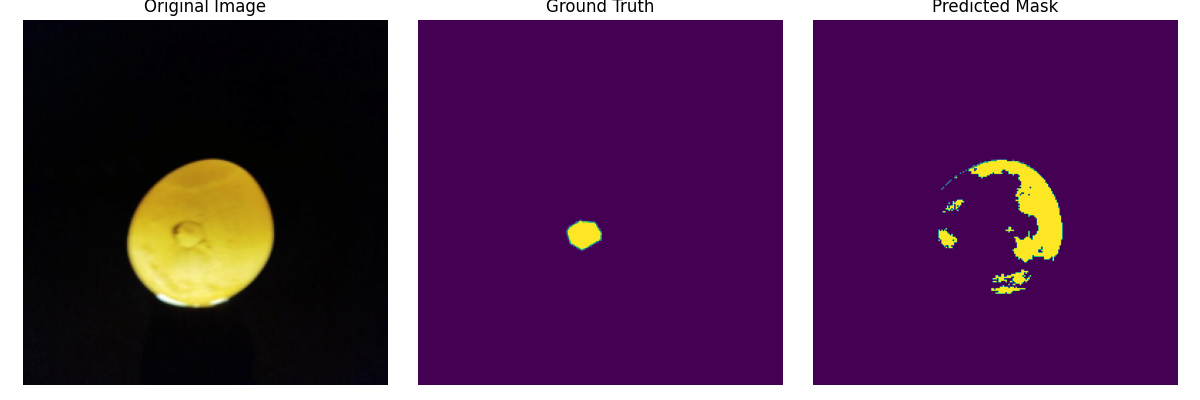
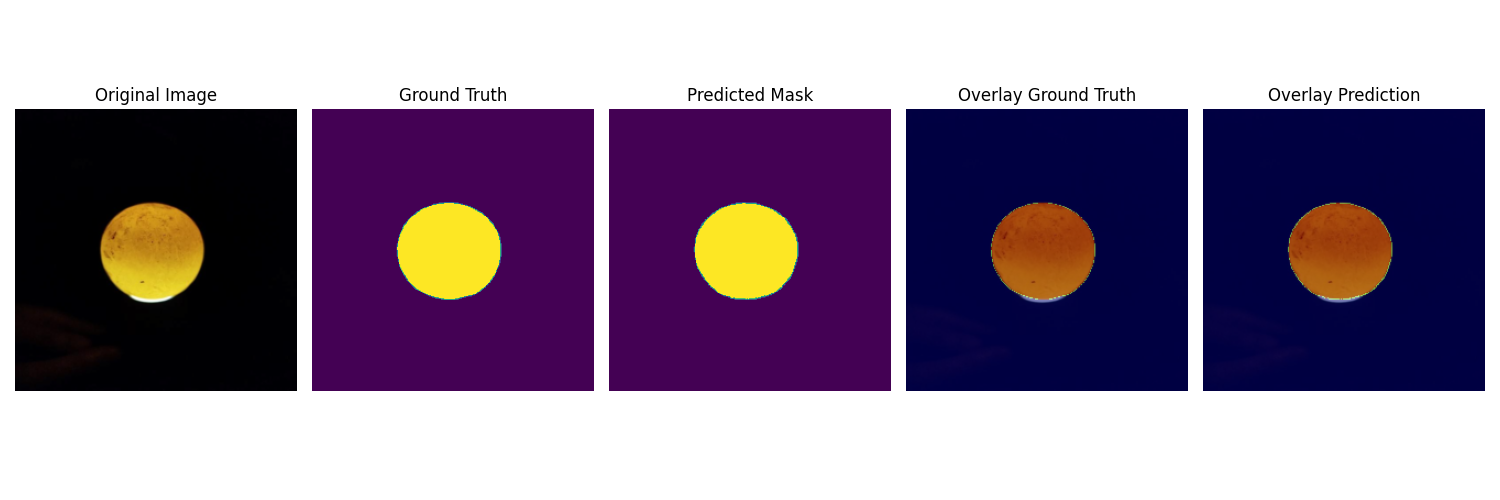
update visual

diff --git a/visualization.py b/visualization.py
@@ -10,23 +10,14 @@ from segnet import Segnet
 import json
 
 def visualize_predictions(model, dataloader, device, output_dir, num_samples=5):
-    """
-    Lưu ảnh gốc, mask ground truth và mask dự đoán vào thư mục chỉ định.
-    
-    Args:
-        model: Mô hình segmentation đã train.
-        dataloader: Dataloader chứa dữ liệu test.
-        device: Thiết bị chạy mô hình ('cuda' hoặc 'cpu').
-        output_dir: Thư mục lưu ảnh kết quả.
-        num_samples: Số lượng mẫu muốn hiển thị.
-    """
+
     os.makedirs(output_dir, exist_ok=True)
     model.eval()
     
     samples = random.sample(list(dataloader), num_samples)
 
-    mean = np.array([0.485, 0.456, 0.406])  # Mean chuẩn hóa
-    std = np.array([0.229, 0.224, 0.225])  # Std chuẩn hóa
+    mean = np.array([0.485, 0.456, 0.406])  
+    std = np.array([0.229, 0.224, 0.225])  
 
     for i, sample in enumerate(samples):
         inputs = sample['image'].to(device)
@@ -34,16 +25,21 @@ def visualize_predictions(model, dataloader, device, output_dir, num_samples=5):
         masks = masks.squeeze(1)
 
         outputs = model(inputs)
-
         y_pred = torch.argmax(outputs, dim=1).data.cpu().numpy()
         y_true = masks.data.cpu().numpy()
 
-        # Chuyển ảnh về định dạng có thể hiển thị
         img = inputs.squeeze(0).permute(1, 2, 0).cpu().numpy()  
-        img = (img * std) + mean  # Đảo chuẩn hóa
-        img = np.clip(img, 0, 1)  # Đảm bảo giá trị nằm trong khoảng [0,1]
+        img = (img * std) + mean  
+        img = np.clip(img, 0, 1)  
 
-        fig, axes = plt.subplots(1, 3, figsize=(12, 4))
+
+        y_pred_colored = colorize_mask(y_pred[0])
+        y_true_colored = colorize_mask(y_true[0])
+
+        overlay_pred = (img * 0.5 + y_pred_colored * 0.5)  
+        overlay_true = (img * 0.5 + y_true_colored * 0.5)  
+
+        fig, axes = plt.subplots(1, 5, figsize=(15, 5))
         axes[0].imshow(img)
         axes[0].set_title("Original Image")
         axes[0].axis("off")
@@ -56,6 +52,14 @@ def visualize_predictions(model, dataloader, device, output_dir, num_samples=5):
         axes[2].set_title("Predicted Mask")
         axes[2].axis("off")
 
+        axes[3].imshow(overlay_true)
+        axes[3].set_title("Overlay Ground Truth")
+        axes[3].axis("off")
+
+        axes[4].imshow(overlay_pred)
+        axes[4].set_title("Overlay Prediction")
+        axes[4].axis("off")
+
         plt.tight_layout()
         save_path = os.path.join(output_dir, f"sample_{i}.png")
         plt.savefig(save_path)
@@ -63,10 +67,10 @@ def visualize_predictions(model, dataloader, device, output_dir, num_samples=5):
         print(f"Saved: {save_path}")
 
 def colorize_mask(mask):
-    """Chuyển đổi mask nhãn thành ảnh màu để dễ nhìn hơn."""
+
     num_classes = np.max(mask) + 1
     colors = plt.cm.get_cmap("jet", num_classes)
-    mask_colored = colors(mask / num_classes)[:, :, :3] 
+    mask_colored = colors(mask / num_classes)[:, :, :3]  
     return mask_colored
 
 if __name__ == "__main__":
